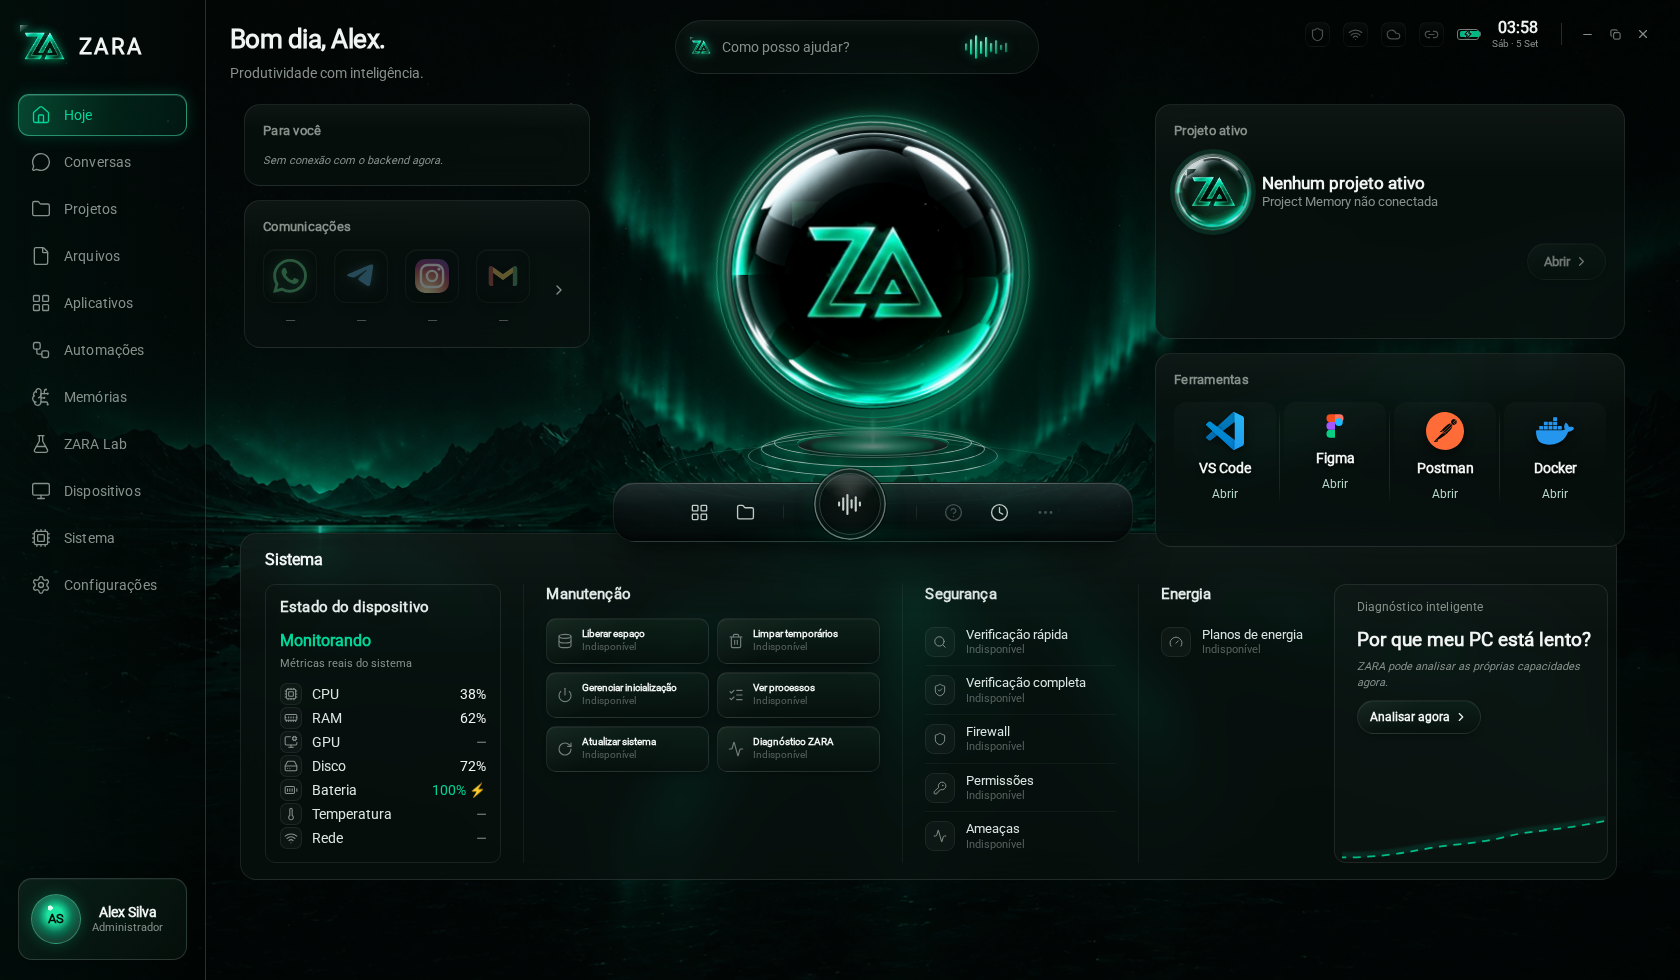
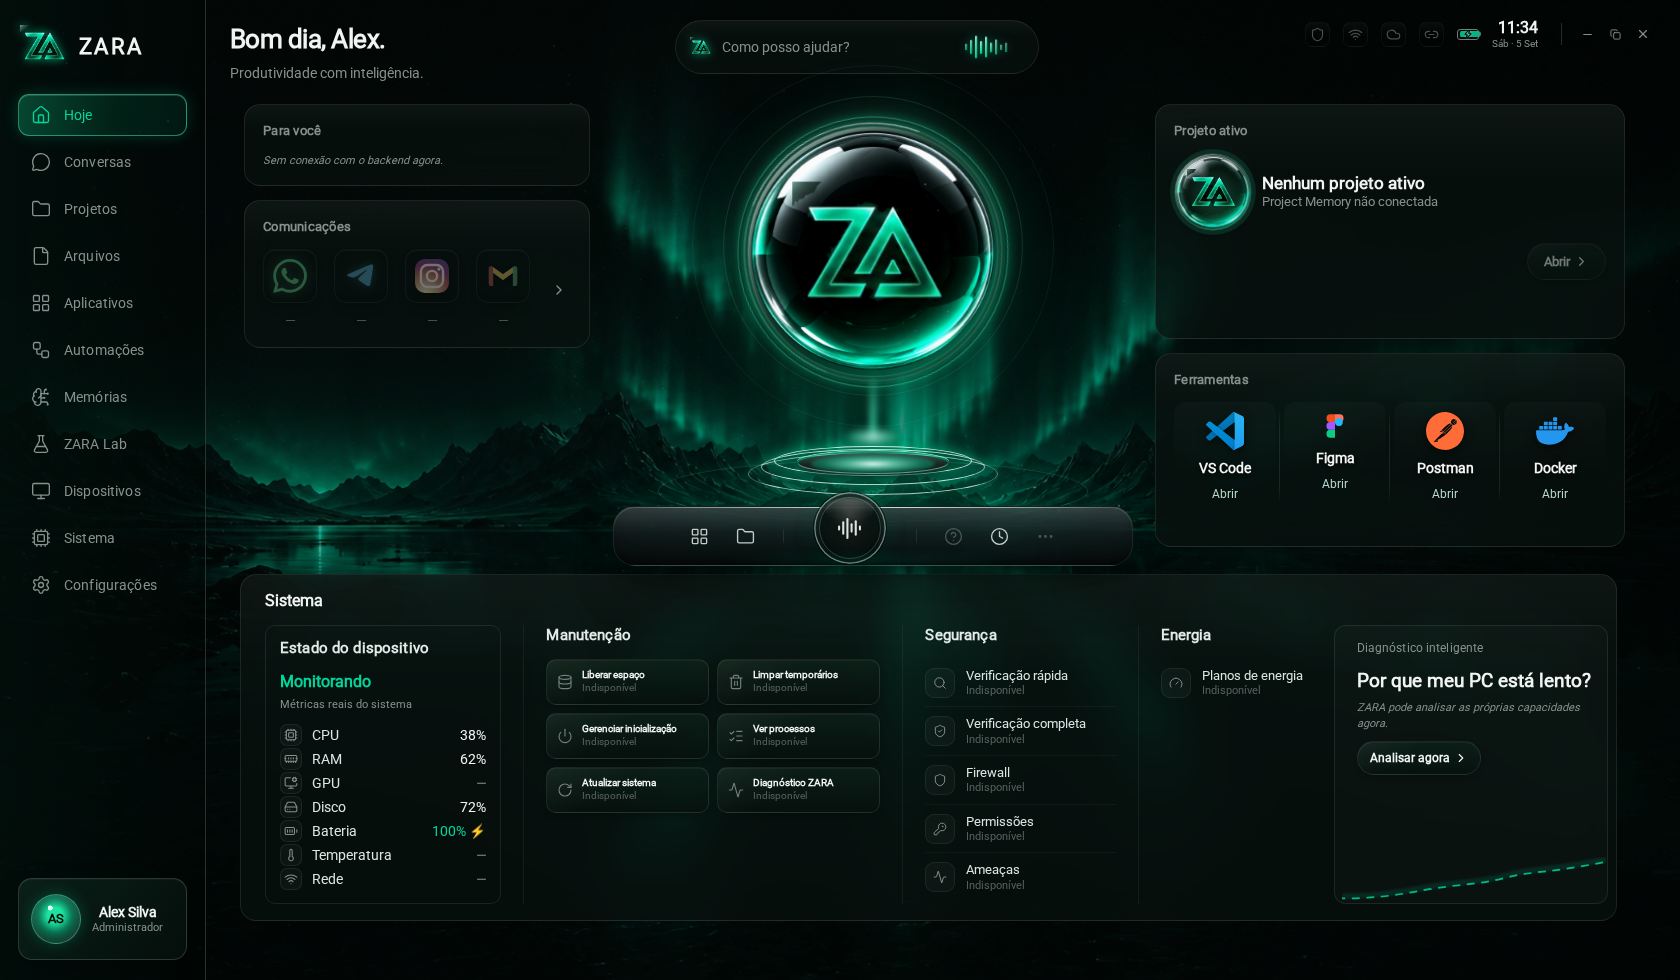
fix(ui): Core -> feixe -> plataforma -> dock virou uma coisa só
A ligação que a MASTER mostra não existia na tela. Medido no master.png:

- A esfera tem ~230px em 1440. A nossa tinha 284px e comia a faixa vertical
  inteira; entre a barriga dela e o disco sobravam 13px, e não havia onde o
  feixe aparecer. Agora tem 244px e o vão é de ~75px.
- O feixe existia no DOM com 26px de altura, escondido dentro do brilho da
  própria esfera. Foi refeito para cobrir o vão inteiro: halo externo macio,
  núcleo fino quase branco e flare de contato onde encosta no disco.
- Dois halos externos finíssimos em volta da esfera (a MASTER tem), no wrap
  para não entrarem no overflow nem nos insets do vidro.
- O halo emerald da esfera estava espalhado demais e comia o contorno de
  vidro: encurtado, com o specular branco do topo mais forte. Vidro escuro
  com crescente contido, não bola neon.
- Aresta de prata do dock atravessava só 8%..92% com pouca opacidade e
  sumia: agora vai de 3% a 97% e o corpo da barra clareou. Metal polido em
  vez de laje preta.

A faixa do Sistema perdeu a margem negativa que a puxava para cima — era ela
que comia justamente o trecho onde essa composição vive. Medido depois:
esfera 130..375, feixe 362..438, disco 450, dock 506..566, Sistema 574..921,
nada se sobrepõe e tudo cabe em 980.

WHAT_IS_PROVEN: `node .zara-tests/ui/run-ui-checks.mjs` -> 7/7; geometria
conferida elemento a elemento no DOM renderizado; typecheck e build limpos.
WHAT_IS_INFERRED: que o Chromium do Electron no Windows compõe igual.
[…]

diff --git a/frontend/src/renderer/styles/zara-home.css b/frontend/src/renderer/styles/zara-home.css
@@ -244,11 +244,11 @@
   align-items: center;
   justify-content: flex-start;
   padding-top: 6px;
-  /* A folga entre a esfera e o dock É a composição: é onde os anéis da
-   * plataforma aparecem. O feixe foi encurtado na mesma medida em que este
-   * gap cresceu, então a altura total da coluna não mudou (o Sistema lá
-   * embaixo não se mexe) — só abriu espaço para a plataforma existir. */
-  gap: 62px;
+  /* A folga entre a esfera e o dock É a composição: é onde o feixe e os
+   * anéis da plataforma aparecem. Medida na MASTER: do fundo da esfera até o
+   * topo do dock são ~130px. Como o feixe agora ocupa 76px desse trecho em
+   * fluxo, o gap restante é o que sobra até o dock. */
+  gap: 78px;
   min-height: 340px;
   position: relative;
   margin: 0;
@@ -1181,7 +1181,9 @@
 .zh-core-platform {
   position: absolute;
   left: 50%;
-  top: 300px;
+  /* 300px encostava a plataforma na barriga da esfera. Na MASTER existe um
+   * vão de ~50px entre as duas, e é nele que o feixe é visível. */
+  top: 318px;
   width: 1px;
   height: 1px;
   z-index: 0;
@@ -1395,38 +1397,56 @@
  * A altura é calculada para terminar NA superfície do disco, não atravessá-la. */
 .zh-core-shaft {
   position: relative;
-  top: 14px;
-  width: 5px;
-  height: 26px;
-  margin-top: -4px;
-  background: linear-gradient(180deg, transparent 0%, rgba(0, 230, 165, 0.55) 22%, rgba(0, 240, 175, 0.7) 60%, rgba(0, 214, 153, 0.4) 90%, transparent 100%);
-  filter: blur(1.6px);
+  top: 8px;
+  /* O feixe cobre o VÃO INTEIRO entre a barriga da esfera e a superfície do
+   * disco (~76px aqui, ~50px na MASTER em 1440). Antes tinha 26px e ficava
+   * escondido dentro do brilho da própria esfera: existia no DOM e não
+   * aparecia em lugar nenhum na tela. */
+  width: 6px;
+  height: 76px;
+  margin-top: -6px;
+  /* Halo externo: largo e macio, escurecendo para cima (a luz nasce na
+   * esfera e ganha corpo ao descer). */
+  background: linear-gradient(180deg,
+    rgba(0, 230, 165, 0) 0%,
+    rgba(0, 230, 165, 0.28) 18%,
+    rgba(0, 240, 175, 0.5) 58%,
+    rgba(0, 245, 180, 0.62) 88%,
+    rgba(0, 230, 165, 0.2) 100%);
+  filter: blur(3px);
   opacity: 1;
 }
 
+/* Núcleo do feixe: linha fina quase branca, que é o que a MASTER mostra. */
 .zh-core-shaft::before {
   content: '';
   position: absolute;
   left: 50%;
-  top: 0;
+  top: -10px;
   transform: translateX(-50%);
-  width: 2px;
-  height: 300%;
-  top: -170%;
-  background: linear-gradient(180deg, transparent 0%, rgba(150, 255, 220, 0.35) 34%, rgba(240, 255, 250, 0.95) 72%, rgba(255, 255, 255, 1) 88%, rgba(170, 255, 225, 0.6) 100%);
+  width: 1.6px;
+  height: calc(100% + 14px);
+  background: linear-gradient(180deg,
+    rgba(200, 255, 236, 0) 0%,
+    rgba(200, 255, 236, 0.55) 22%,
+    rgba(240, 255, 250, 0.95) 62%,
+    rgba(255, 255, 255, 1) 92%,
+    rgba(190, 255, 232, 0.7) 100%);
+  box-shadow: 0 0 6px rgba(120, 255, 214, 0.7);
 }
 
+/* Flare de contato: o alargamento exatamente onde o feixe encosta no disco. */
 .zh-core-shaft::after {
   content: '';
   position: absolute;
   left: 50%;
-  bottom: -6px;
+  bottom: -7px;
   transform: translateX(-50%);
-  width: 68px;
-  height: 18px;
+  width: 58px;
+  height: 16px;
   border-radius: 50%;
-  background: radial-gradient(ellipse at 50% 50%, rgba(255, 255, 255, 1), rgba(120, 255, 214, 0.65) 38%, rgba(0, 230, 165, 0.25) 70%, transparent 88%);
-  filter: blur(2px);
+  background: radial-gradient(ellipse at 50% 50%, rgba(255, 255, 255, 0.95), rgba(120, 255, 214, 0.6) 36%, rgba(0, 230, 165, 0.22) 70%, transparent 88%);
+  filter: blur(2.5px);
 }
 
 .zh-core-mark {
@@ -1555,8 +1575,8 @@
   border-radius: 22px;
   transform: translateY(-2px);
   background:
-    linear-gradient(180deg, rgba(255, 255, 255, 0.055) 0%, rgba(255, 255, 255, 0) 38%),
-    linear-gradient(180deg, rgba(30, 36, 40, 0.62) 0%, rgba(10, 14, 16, 0.78) 58%, rgba(5, 8, 9, 0.86) 100%);
+    linear-gradient(180deg, rgba(255, 255, 255, 0.085) 0%, rgba(255, 255, 255, 0) 42%),
+    linear-gradient(180deg, rgba(44, 52, 56, 0.66) 0%, rgba(16, 21, 23, 0.8) 58%, rgba(7, 10, 11, 0.88) 100%);
   border: 1px solid rgba(150, 190, 178, 0.1);
   box-shadow:
     0 26px 54px -20px rgba(0, 0, 0, 0.95),
@@ -1568,14 +1588,24 @@
   -webkit-backdrop-filter: blur(26px) saturate(1.15);
 }
 
+/* Aresta de prata no topo do dock: na MASTER ela atravessa a barra quase
+ * inteira e é o que dá a leitura de metal polido. Em 8%..92% e com pouca
+ * opacidade ela sumia e a barra virava uma laje preta. */
 .zh-dock::before {
   content: '';
   position: absolute;
-  left: 8%;
-  right: 8%;
+  left: 3%;
+  right: 3%;
   top: 0;
   height: 1px;
-  background: linear-gradient(90deg, transparent, rgba(232, 250, 243, 0.42) 32%, rgba(232, 250, 243, 0.5) 50%, rgba(232, 250, 243, 0.42) 68%, transparent);
+  background: linear-gradient(90deg,
+    transparent,
+    rgba(232, 250, 243, 0.3) 12%,
+    rgba(240, 253, 248, 0.72) 40%,
+    rgba(245, 255, 251, 0.82) 50%,
+    rgba(240, 253, 248, 0.72) 60%,
+    rgba(232, 250, 243, 0.3) 88%,
+    transparent);
   pointer-events: none;
 }
 
@@ -2027,9 +2057,12 @@
 }
 
 .zh-core {
-  width: 284px;
-  height: 284px;
-  filter: drop-shadow(0 0 34px #00bd8242) drop-shadow(0 20px 46px #000000c9);
+  /* Medido no master.png: a esfera tem ~230px em 1440. Em 284px ela comia a
+   * faixa vertical inteira e o feixe Core->plataforma não tinha onde
+   * aparecer — na MASTER esse trecho de luz tem ~50px. */
+  width: 244px;
+  height: 244px;
+  filter: drop-shadow(0 0 30px #00bd8238);
 }
 
 .zh-core-glass {
@@ -2391,14 +2424,49 @@
     radial-gradient(circle at 35% 24%, #ffffff38 0%, transparent 13%),
     radial-gradient(circle at 50% 54%, #17483b66 0%, #06120ed8 52%, #010504f5 84%, transparent 100%);
   border: 1px solid #c7f7e72e;
+  /* Na MASTER a esfera é VIDRO ESCURO com um crescente esmeralda contido na
+   * barriga — não uma bola neon. O halo emerald estava espalhado demais e
+   * comia o contorno de vidro; aqui ele fica mais curto e mais fechado, e o
+   * specular branco do topo ganha força para a leitura ser de material. */
   box-shadow:
-    inset 14px 15px 22px -20px #ffffffd9,
-    inset -15px -18px 26px -15px #00d6998a,
+    inset 16px 16px 22px -20px #ffffffe6,
+    inset -13px -15px 18px -14px #00d6996e,
     inset 0 0 0 1px #18bd8750,
     0 0 0 4px #0b382b55,
-    0 0 0 6px #1de9a11e,
-    0 0 20px 2px #00d69935,
+    0 0 0 6px #1de9a116,
+    0 0 16px 0 #00d69926,
     0 18px 42px -18px #000000f0;
+}
+
+/* Halos externos da MASTER: dois aros finíssimos bem afastados da esfera,
+ * quase invisíveis, que dão a leitura de "campo" em volta do Core. Eles
+ * ficam no wrap, não no `.zh-core`, para não entrarem no `overflow` nem nos
+ * insets do vidro. */
+.zh-core-wrap::before,
+.zh-core-wrap::after {
+  content: '';
+  position: absolute;
+  left: 50%;
+  top: 8px;
+  border-radius: 50%;
+  pointer-events: none;
+  z-index: 0;
+}
+
+.zh-core-wrap::before {
+  width: 300px;
+  height: 300px;
+  margin-left: -150px;
+  margin-top: -28px;
+  border: 1px solid rgba(126, 224, 196, 0.13);
+}
+
+.zh-core-wrap::after {
+  width: 362px;
+  height: 362px;
+  margin-left: -181px;
+  margin-top: -59px;
+  border: 1px solid rgba(126, 224, 196, 0.07);
 }
 
 .zh-core::before,
@@ -2609,9 +2677,10 @@
  * compacta, sem modificar a estrutura dos controles. */
 @media (min-width: 1301px) {
   .zh-system-row {
-    /* -32px cobria o rodapé do card Comunicações. A faixa continua subindo
-     * para a altura da MASTER, só que sem comer o card de cima. */
-    margin-top: -20px;
+    /* Sem margem negativa: a coluna do Core precisa da altura inteira para
+     * caber esfera + feixe + plataforma + dock na proporção da MASTER, e
+     * puxar a faixa para cima comia justamente esse trecho. */
+    margin-top: 0;
     min-height: 294px;
     overflow: hidden;
   }
